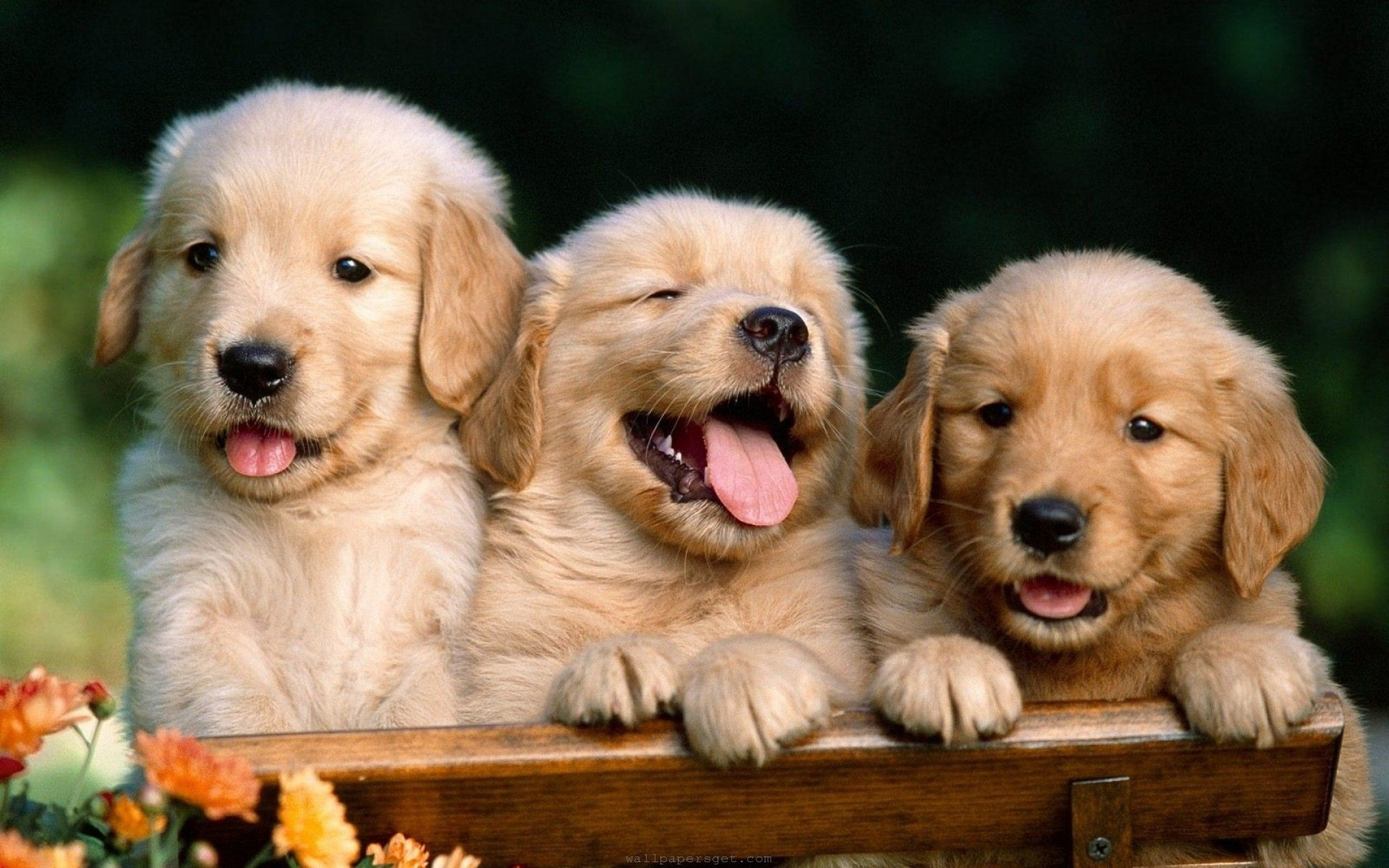
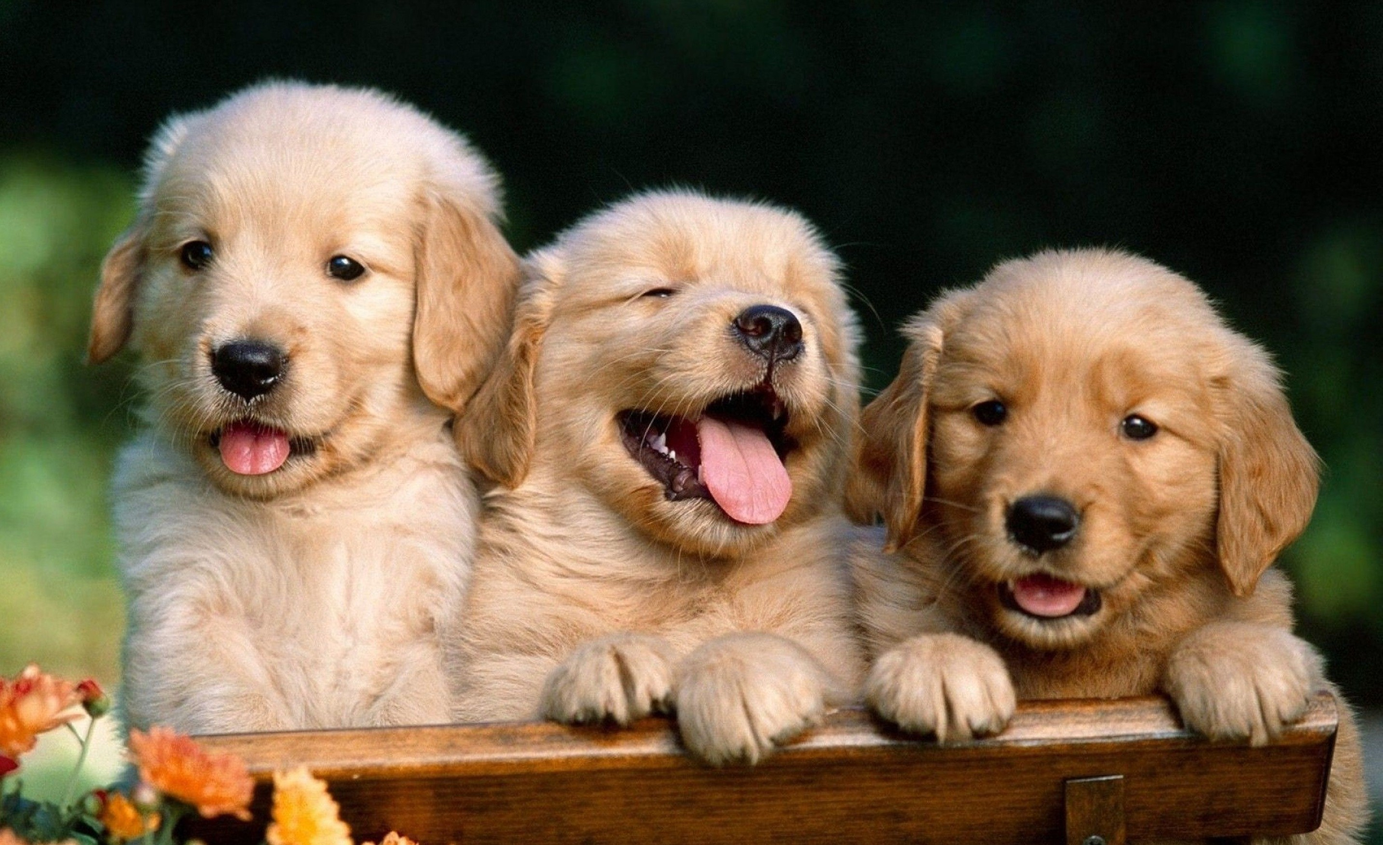
change in bg

diff --git a/output.css b/output.css
@@ -53,13 +53,11 @@ html {
 2. Inherit line-height from `html` so users can set them as a class directly on the `html` element.
 */
 .bg {
-  background: url(Assets/Images/bg.jpg) no-repeat center center/cover;
-}
-.op {
-  opacity: 50%;
+  background: url(Assets/Images/bg1.jpg) no-repeat center center/cover;
 }
 .op:hover {
-  opacity: 80%;
+  transform: scale(1.04);
+  transition: transform 0.2s ease-out, box-shadow 0.2s ease-out;
 }
 body {
   margin: 0;
